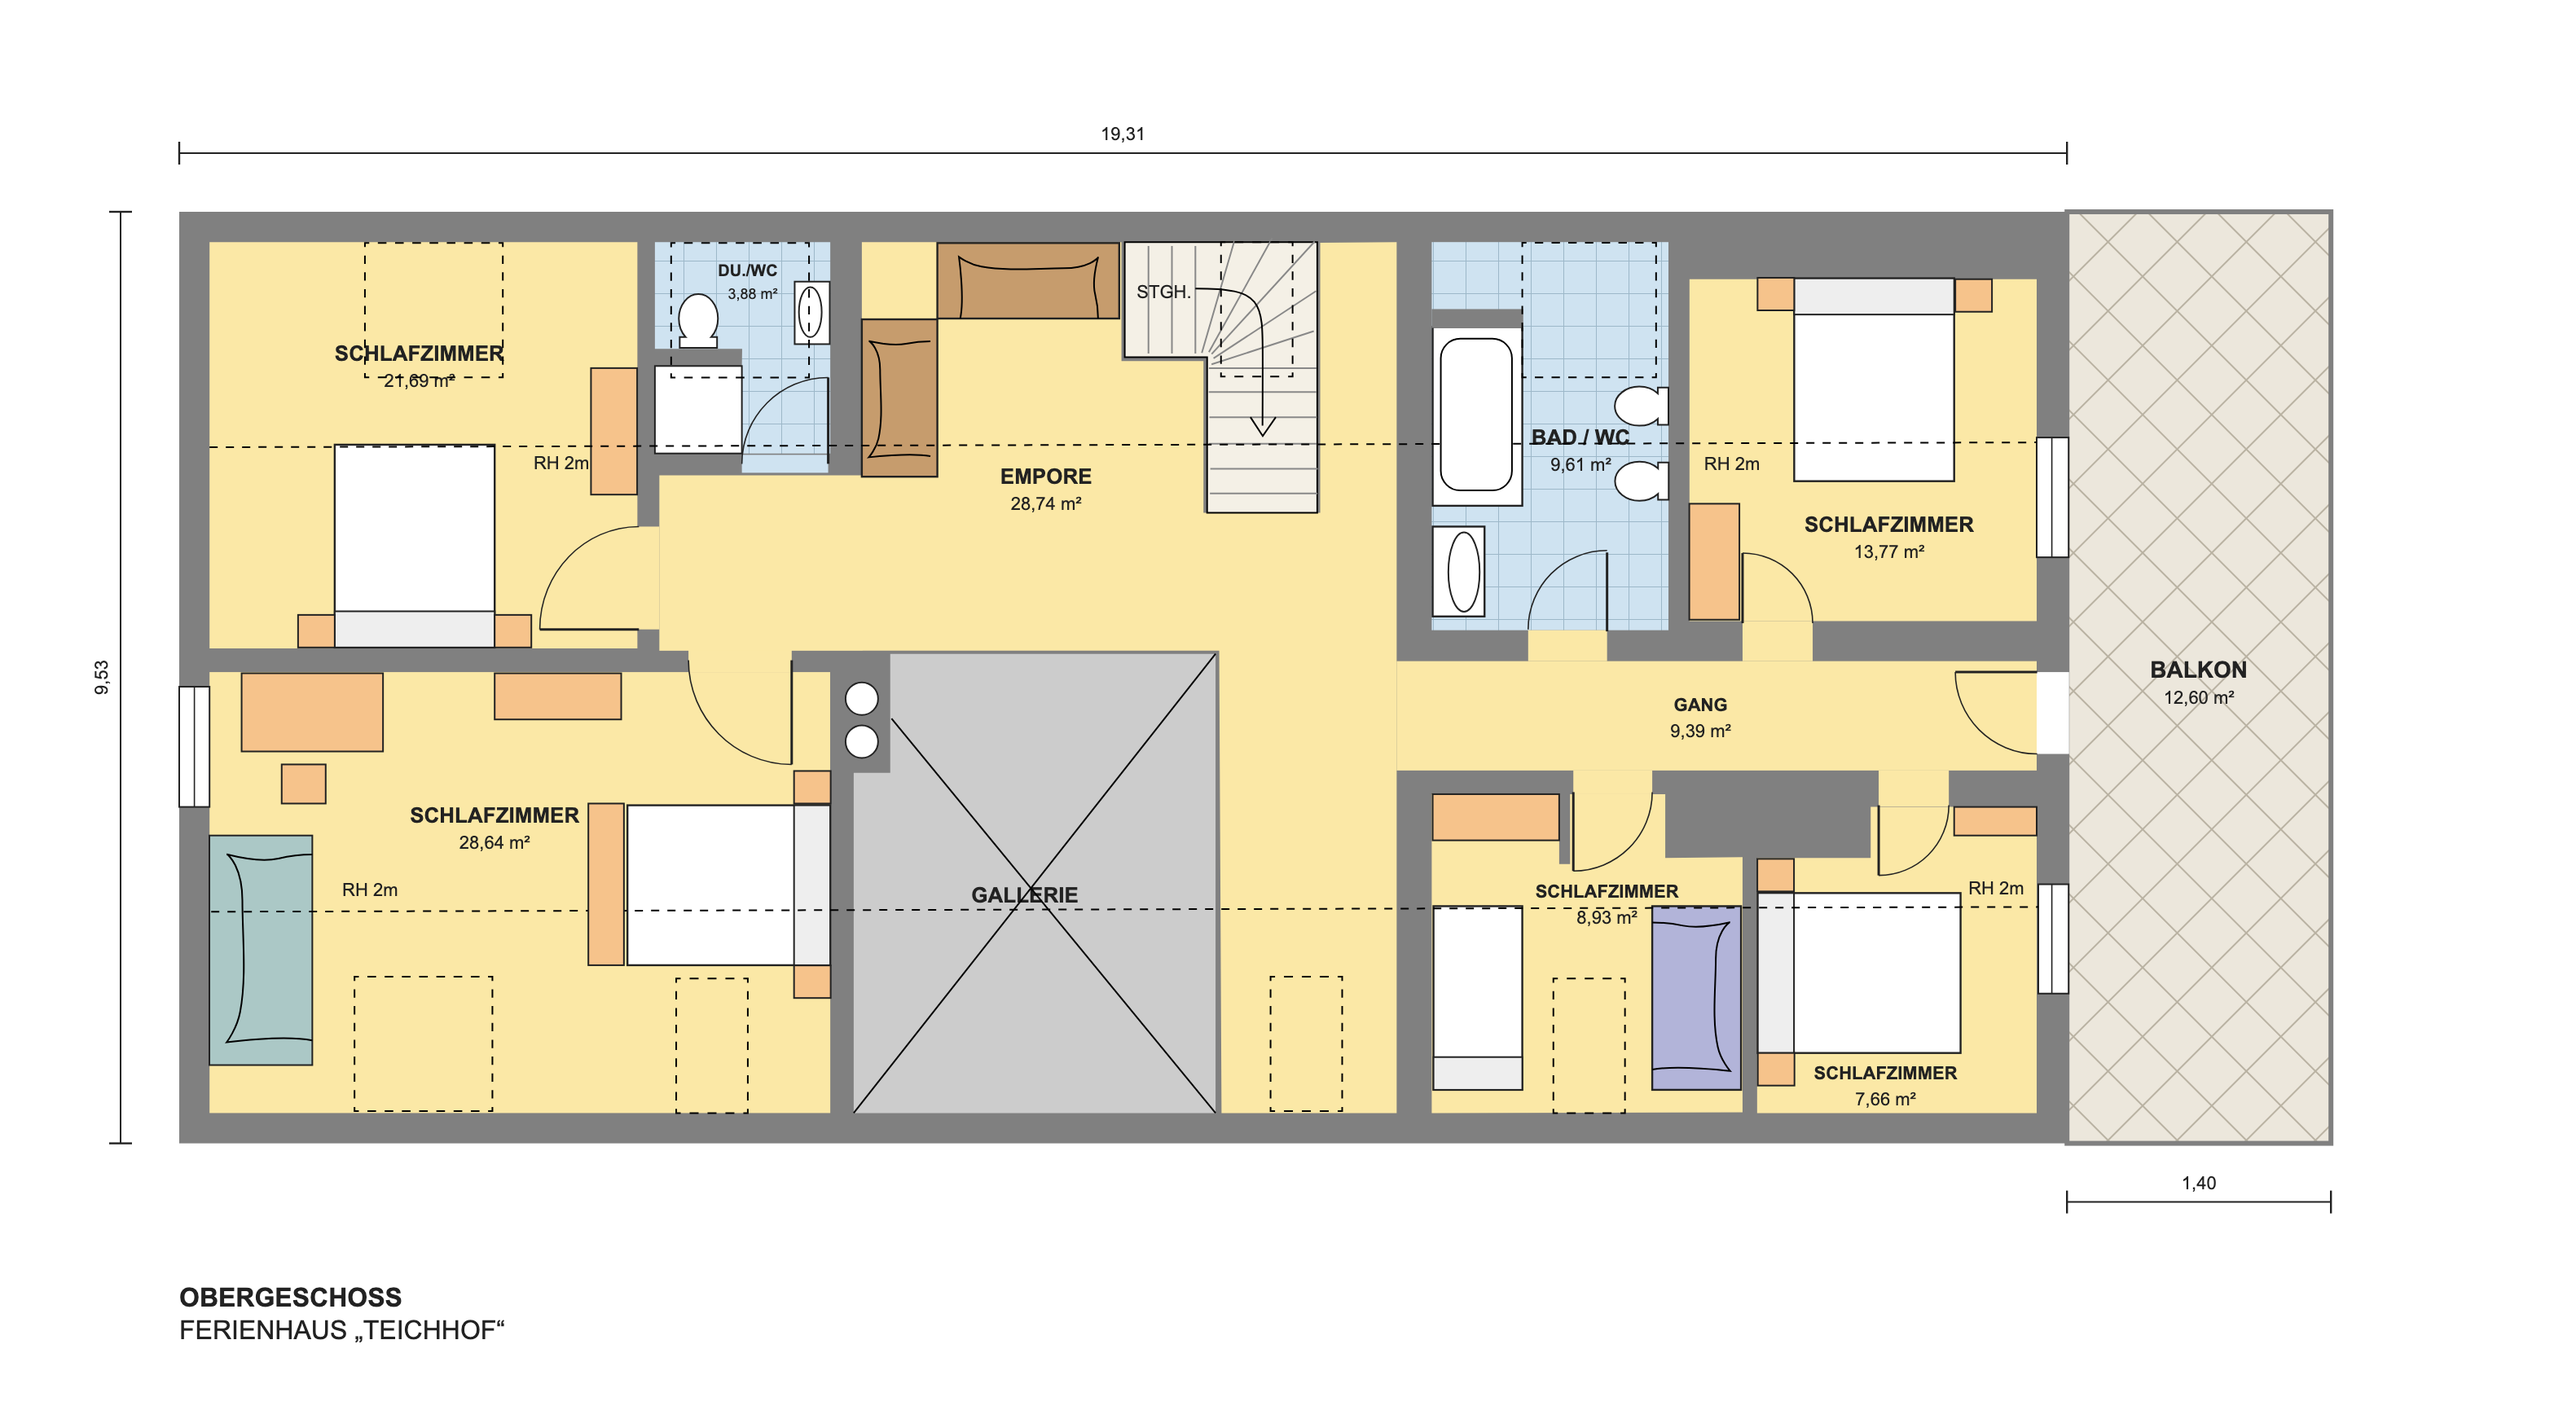
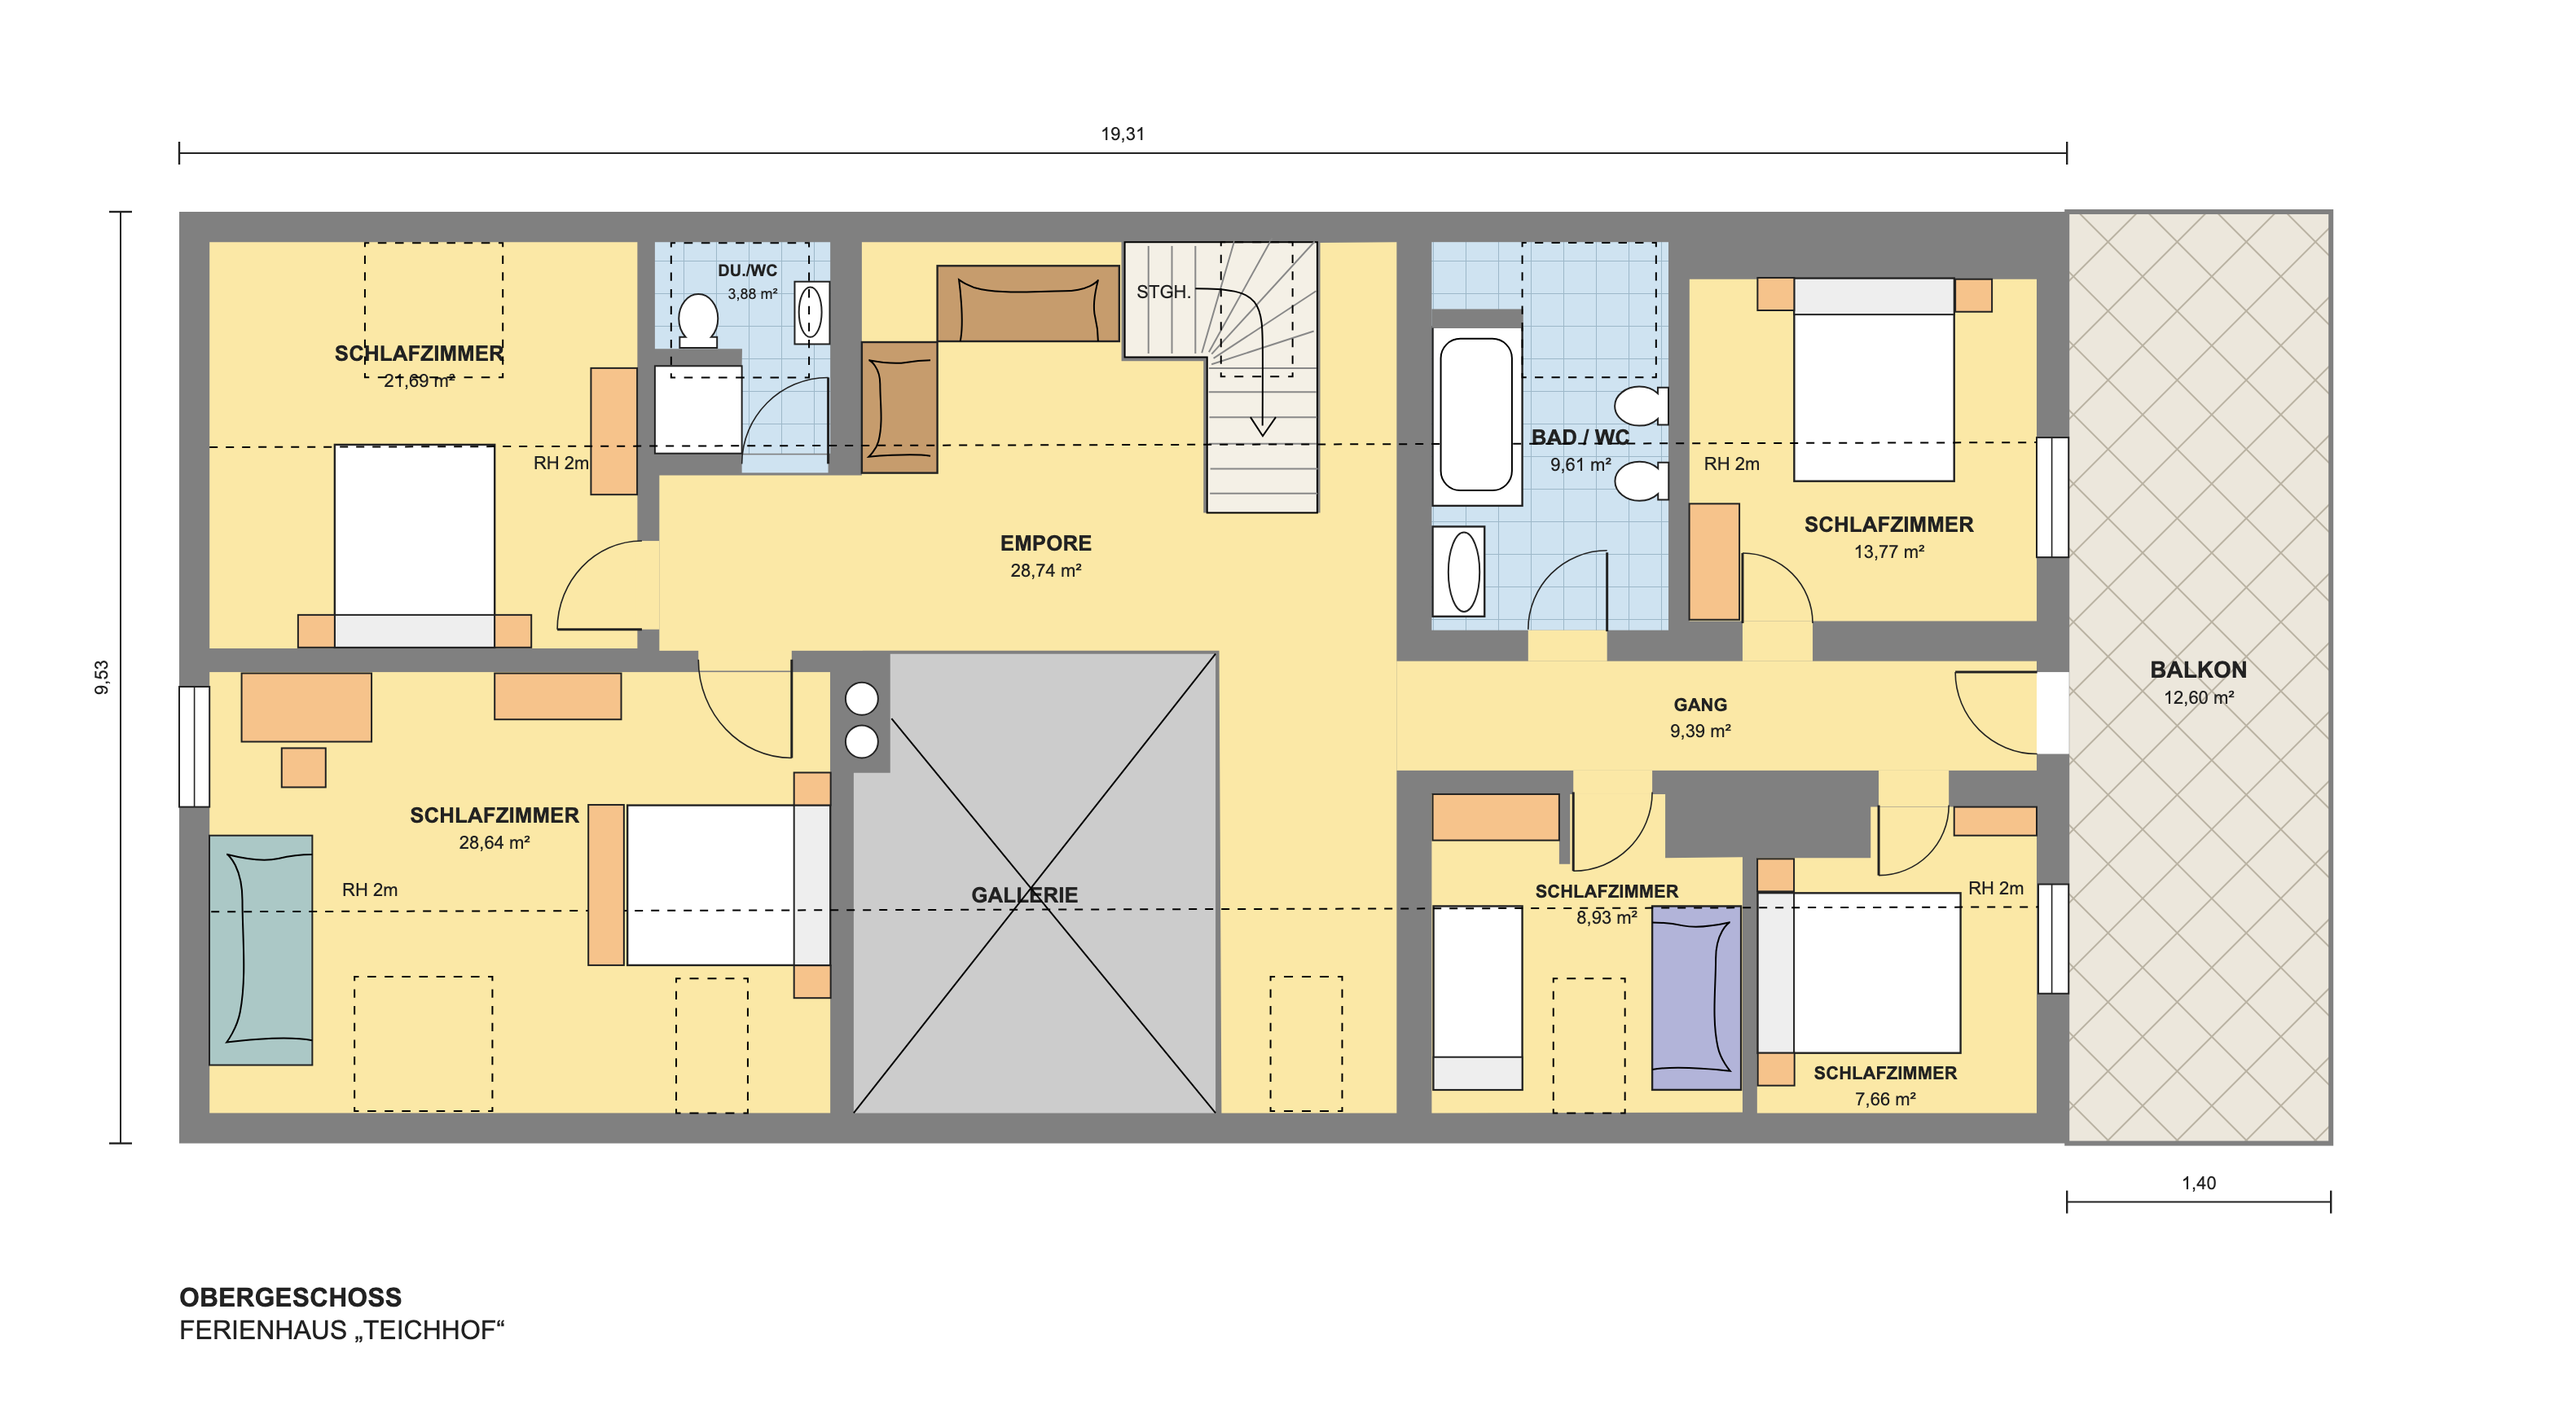
Deploy built site from 66a89e3

diff --git a/grundriss/index.html b/grundriss/index.html
@@ -6,5 +6,5 @@
 <body class="legal-page plans-page"><div class="legal-top"><a class="footer-brand" href="/">TEICHHOF</a><a href="/"><svg class="arrow-icon arrow-icon--left" xmlns="http://www.w3.org/2000/svg" viewBox="0 0 24 24" width="24" height="24" fill="none" stroke="currentColor" stroke-width="1.5" stroke-linecap="round" stroke-linejoin="round" aria-hidden="true" focusable="false"><path d="M4 12h16m-7-7 7 7-7 7"></path></svg> Zur Website</a><a class="button cream header-cta" href="/#buchungswahl">Buchen <span><svg class="arrow-icon arrow-icon--down" xmlns="http://www.w3.org/2000/svg" viewBox="0 0 24 24" width="24" height="24" fill="none" stroke="currentColor" stroke-width="1.5" stroke-linecap="round" stroke-linejoin="round" aria-hidden="true" focusable="false"><path d="M4 12h16m-7-7 7 7-7 7"></path></svg></span></a></div>
 <main class="legal-content section plans-content"><p class="eyebrow">TEICHHOF</p><h1>Grundriss</h1>
 <p class="plans-intro">Das ganze Haus gehört euch: 7 Zimmer und 3 Bäder auf zwei Etagen, Platz für bis zu 10 Gäste.</p>
-<section class="plan" id="erdgeschoss"><h2>Erdgeschoss</h2><p>Küche und Esszimmer, Wohnzimmer, Schlafzimmer, Kinderzimmer, Bad, WC, Vorraum und Veranda.</p><a class="plan-link" href="/assets/grundriss-erdgeschoss.svg?v=8e5019e5" target="_blank" rel="noopener" aria-label="Erdgeschoss in voller Größe öffnen"><img src="/assets/grundriss-erdgeschoss.svg?v=8e5019e5" alt="Grundriss Erdgeschoss des Teichhofs mit Küche und Esszimmer, Wohnzimmer, Schlafzimmer, Kinderzimmer, Bad, WC und Vorraum" width="1642" height="871" loading="lazy" decoding="async"></a><p class="plan-actions"><a href="/assets/grundriss-erdgeschoss.svg?v=8e5019e5" target="_blank" rel="noopener">Plan in voller Größe öffnen</a> · <a href="/assets/grundriss-erdgeschoss.png?v=8e5019e5" download>Als Bild (PNG) speichern</a></p></section><section class="plan" id="obergeschoss"><h2>Obergeschoss</h2><p>Schlafzimmer, Bäder, Empore und Gang mit Zugang zum Balkon. Im Obergeschoss gibt es Dachschrägen.</p><a class="plan-link" href="/assets/grundriss-obergeschoss.svg?v=51c50423" target="_blank" rel="noopener" aria-label="Obergeschoss in voller Größe öffnen"><img src="/assets/grundriss-obergeschoss.svg?v=51c50423" alt="Grundriss Obergeschoss des Teichhofs mit Schlafzimmern, Bad, Du./WC, Empore, Gang und Balkon" width="1580" height="871" loading="lazy" decoding="async"></a><p class="plan-actions"><a href="/assets/grundriss-obergeschoss.svg?v=51c50423" target="_blank" rel="noopener">Plan in voller Größe öffnen</a> · <a href="/assets/grundriss-obergeschoss.png?v=51c50423" download>Als Bild (PNG) speichern</a></p></section><p class="plans-note">Die Pläne zeigen die Raumaufteilung. Einrichtung und Maße können im Detail abweichen.</p></main>
+<section class="plan" id="erdgeschoss"><h2>Erdgeschoss</h2><p>Küche und Esszimmer, Wohnzimmer, Schlafzimmer, Kinderzimmer, Bad, WC, Vorraum und Veranda.</p><a class="plan-link" href="/assets/grundriss-erdgeschoss.svg?v=f94b32a4" target="_blank" rel="noopener" aria-label="Erdgeschoss in voller Größe öffnen"><img src="/assets/grundriss-erdgeschoss.svg?v=f94b32a4" alt="Grundriss Erdgeschoss des Teichhofs mit Küche und Esszimmer, Wohnzimmer, Schlafzimmer, Kinderzimmer, Bad, WC und Vorraum" width="1642" height="871" loading="lazy" decoding="async"></a><p class="plan-actions"><a href="/assets/grundriss-erdgeschoss.svg?v=f94b32a4" target="_blank" rel="noopener">Plan in voller Größe öffnen</a> · <a href="/assets/grundriss-erdgeschoss.png?v=f94b32a4" download>Als Bild (PNG) speichern</a></p></section><section class="plan" id="obergeschoss"><h2>Obergeschoss</h2><p>Schlafzimmer, Bäder, Empore und Gang mit Zugang zum Balkon. Im Obergeschoss gibt es Dachschrägen.</p><a class="plan-link" href="/assets/grundriss-obergeschoss.svg?v=65211b6b" target="_blank" rel="noopener" aria-label="Obergeschoss in voller Größe öffnen"><img src="/assets/grundriss-obergeschoss.svg?v=65211b6b" alt="Grundriss Obergeschoss des Teichhofs mit Schlafzimmern, Bad, Du./WC, Empore, Gang und Balkon" width="1580" height="871" loading="lazy" decoding="async"></a><p class="plan-actions"><a href="/assets/grundriss-obergeschoss.svg?v=65211b6b" target="_blank" rel="noopener">Plan in voller Größe öffnen</a> · <a href="/assets/grundriss-obergeschoss.png?v=65211b6b" download>Als Bild (PNG) speichern</a></p></section><p class="plans-note">Die Pläne zeigen die Raumaufteilung. Einrichtung und Maße können im Detail abweichen.</p></main>
 <footer><a href="/">Zurück zum Teichhof</a></footer></body></html>
